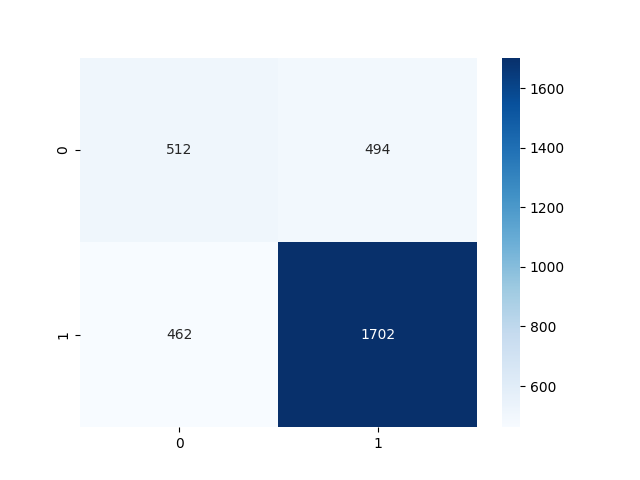
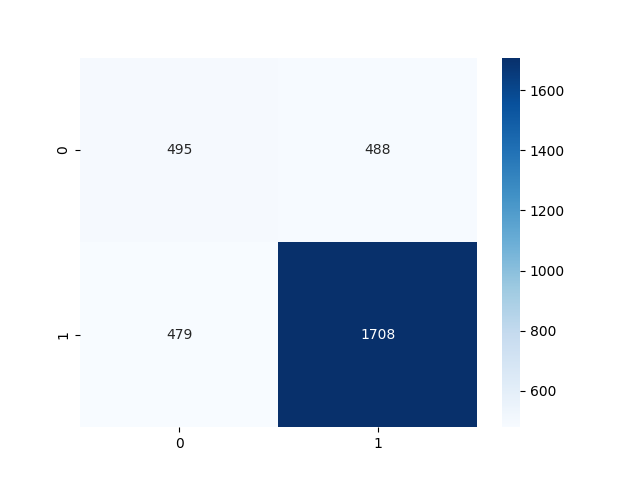
added config files

diff --git a/run.py b/run.py
@@ -1,9 +1,14 @@
+# load visuals & feature creation 
 from src.data.make_dataset import *
 from src.viz.visualization import *
+
+# load machine learning 
 from src.models.model_relevancy import *
 from src.models.model_score import *
+from src.models.opt_model_relevancy import *
 
 import sys
+import json
 
 def main(targets):
 
@@ -15,12 +20,30 @@ def main(targets):
         outpath = 'data/test/test_out.csv'
 
     try:
+
+        # baseline EDA 
         make_dataset(inpath, outpath)
         make_visuals(outpath)
-        metrics_rel = relevancy(outpath)
 
-        print(metrics_rel)
-       # metrics_sco = score(outpath)
+        # load model parameters
+        config_path = "config/model_parameters.json"
+        with open(config_path) as mp:
+            optimized_parameters = json.load(mp)
+
+        # vanilla metrics
+        metrics_rel = relevancy(outpath)
+        metrics_sco = None # score(outpath)
+
+        # optimized metrics
+      #  opt_metrics_rel = opt_relevancy(outpath, optimized_parameters)
+
+        # print results 
+        print("The vanilla metrics:")
+        print(metrics_rel, metrics_sco)
+
+        print("The optimized metrics:")
+        print(optimized_parameters)
+
     except Exception as ex:
         template = "An exception of type {0} occurred. Arguments:\n{1!r}"
         message = template.format(type(ex).__name__, ex.args)

diff --git a/src/models/opt_model_relevancy.py b/src/models/opt_model_relevancy.py
@@ -11,13 +11,16 @@ from sklearn.svm import SVC
 from sklearn.neighbors import KNeighborsClassifier
 from sklearn.metrics import precision_score, recall_score, f1_score, confusion_matrix
 
-def relevancy(inpath):
+def opt_relevancy(inpath, parameters):
 
     df = pd.read_csv(inpath)
     x = df["text"]
     y = df["relevant"]
 
-    model_options = [DecisionTreeClassifier(), SVC(), KNeighborsClassifier()]
+    model_options = [
+        DecisionTreeClassifier(parameters["DTC"]), 
+        SVC(parameters["SVM"]), 
+        KNeighborsClassifier(parameters["KNN"])]
     metrics = {}
 
     for opt in model_options:
@@ -46,7 +49,7 @@ def relevancy(inpath):
         cm = confusion_matrix(predictions, y_test)
         plot = sns.heatmap(cm, cmap = "Blues", annot = True, fmt = "1")
         
-        path = "data/visuals/" + str(name) + ".png"
+        path = "data/visuals/" + "optimized_" + str(name) + ".png"
         plot.figure.savefig(path)
 
         metrics[name] = stats

diff --git a/README.md b/README.md
@@ -18,7 +18,15 @@ Not entirely cleaned up yet. Cleaned versions of this code will be found inside 
 #### src
 Contains the Python scripts needed to run the project, divided as such:
 - data: `make_dataset.py` cleans and processes the raw data
-- models: `relevance.py` trains the relevance classifier and generates plots of the resulting model & `score.py` does the same for the scoring model. 
+- models: 
+    - Vanilla Models: 
+        - `relevance.py` trains the relevance classifier and generates plots of the resulting model 
+        - `score.py` does the same for the scoring model.
+    - Optimized Models:
+        - `opt_model_relevancy.py` trains the relevance classifier with optimized parameters
+        - `best_classifier` uses the group's best decided classifier
+        - `best_scoring` uses the group's best decided scoring model
+        [^1]: There is no optimized file for the scoring model as the best parameters were default
 - viz: `visualization.py` generates preliminary EDA visuals
 - unused: `app.py` is a now-deprecated Streamlit app used for demoing EDA early into Quarter 1
 
